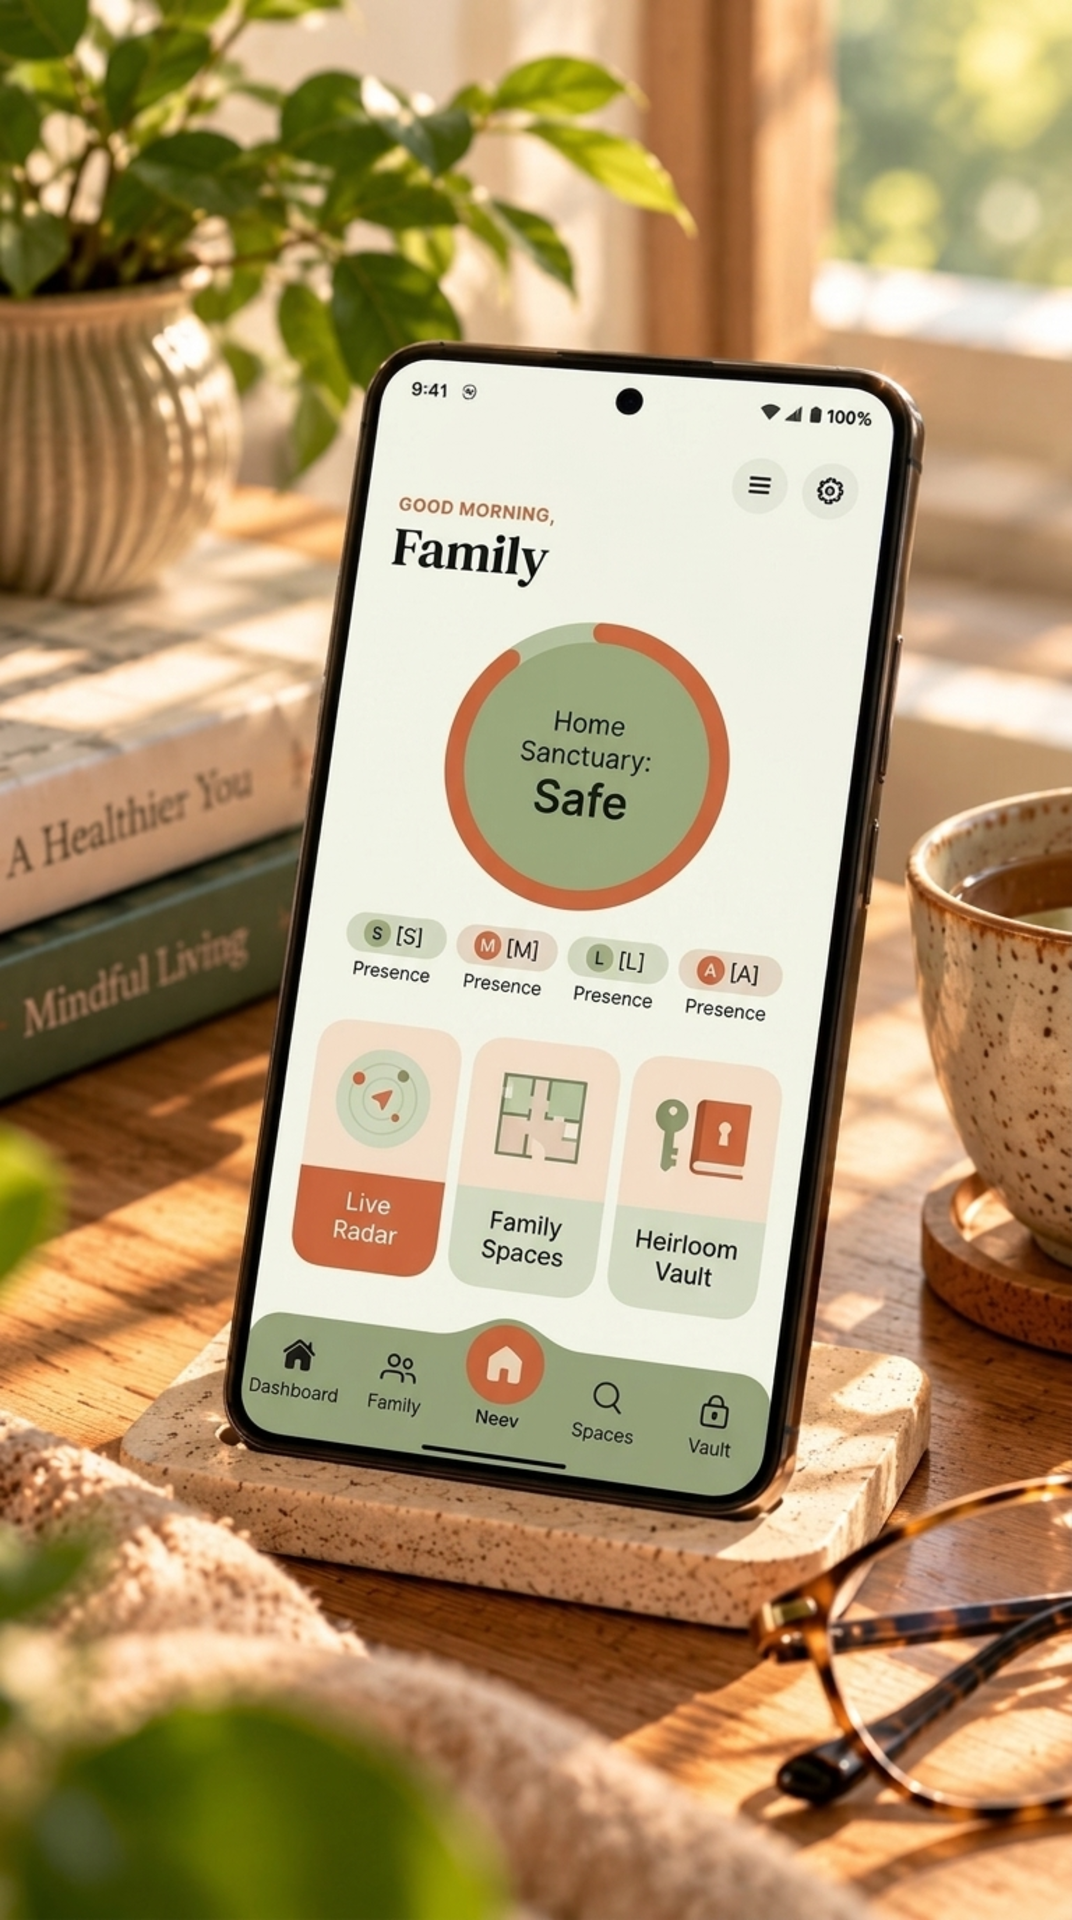
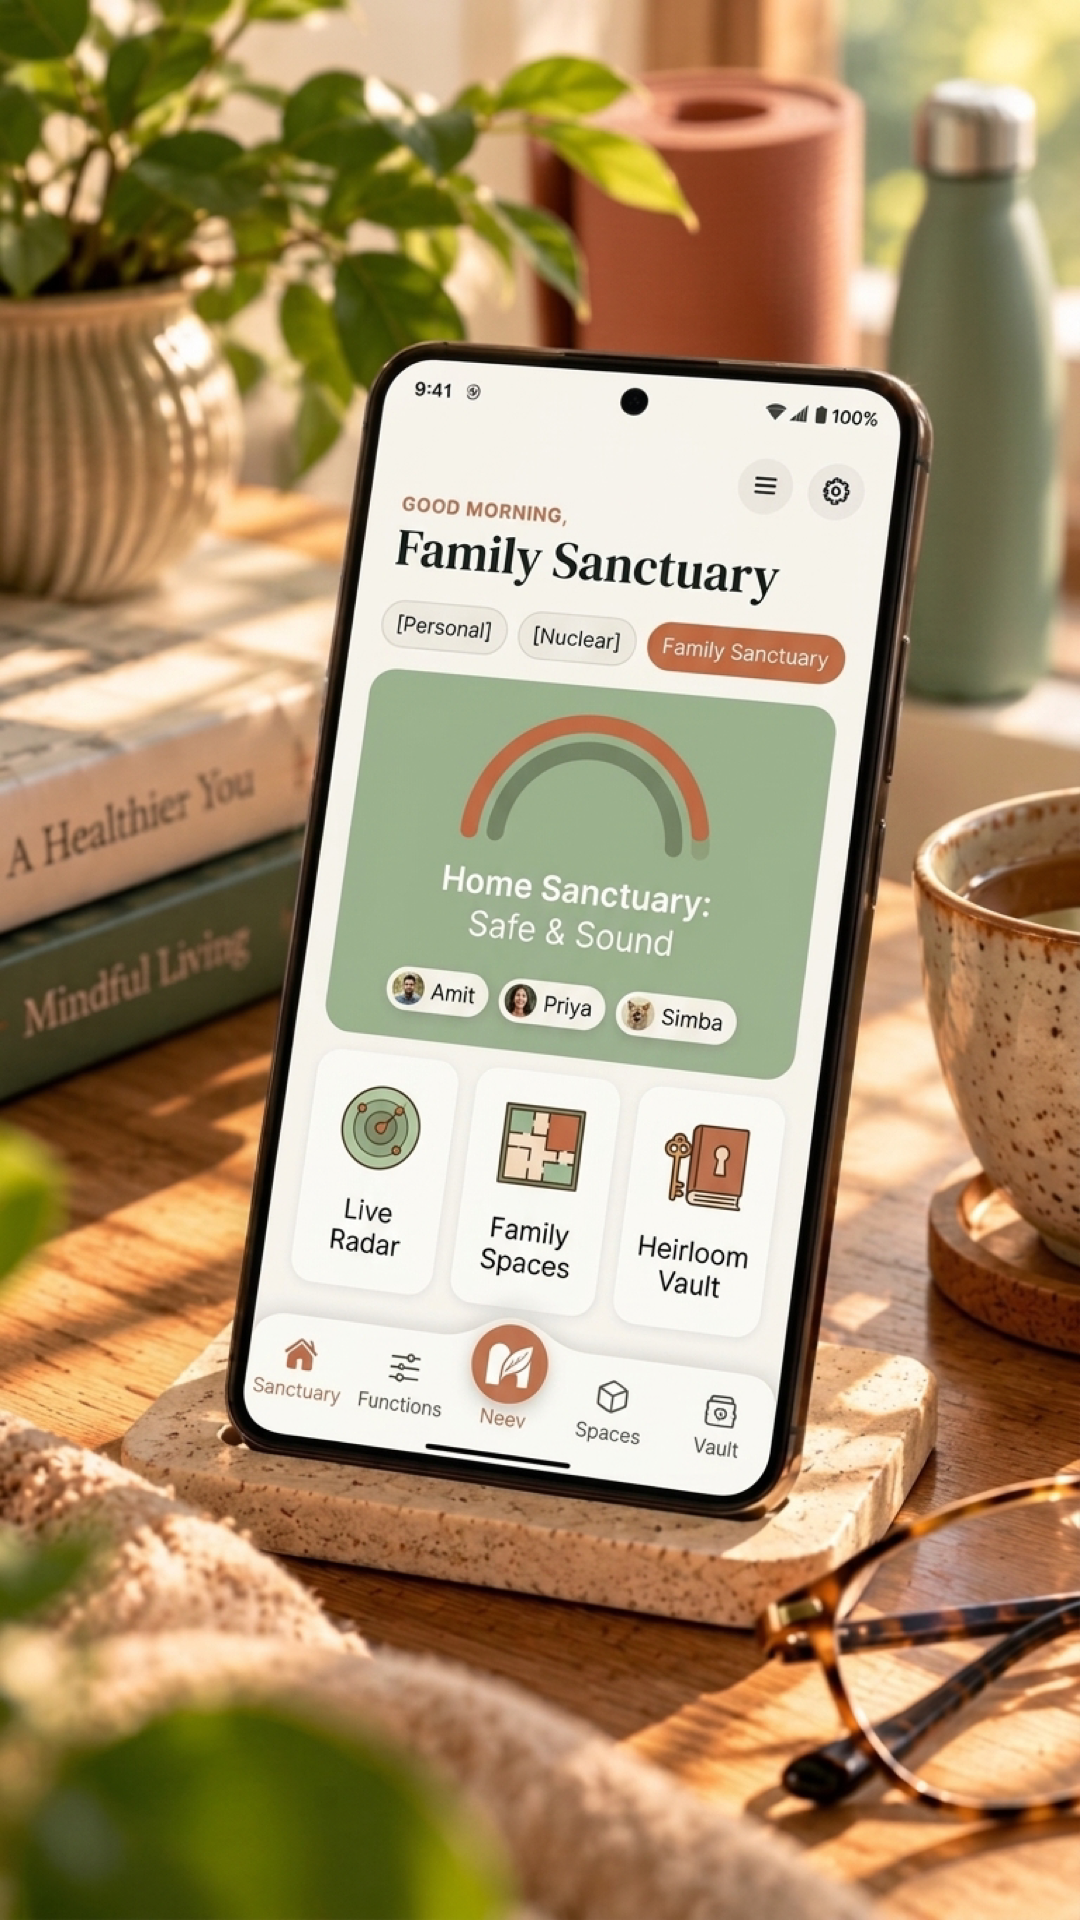
chore(auth): comment anvay id in signin and update screenshot
Comments out ecosystem signin button to prevent crash, removes unused workflow, deploys real lifestyle screenshot, and documents AnvayKosh architecture.

Changed region(s): [[0.2155, 0.25, 0.8004, 0.7812], [0.4618, 0.0312, 1.0, 0.4062]]

diff --git a/src/app/(auth)/sign-in.tsx b/src/app/(auth)/sign-in.tsx
@@ -6,7 +6,6 @@ import { useSafeAreaInsets } from "react-native-safe-area-context"
 import Svg, { Path } from "react-native-svg"
 
 import AnimatedNeevLogoIcon from "@/components/brand/AnimatedNeevLogoIcon"
-import { AnvayKoshIcon } from "@/components/brand/AnvayKoshIcon"
 import { AppBottomSheetModal } from "@/components/ui/AppBottomSheetModal"
 import { AppButton } from "@/components/ui/AppButton"
 import { HeaderBackButton } from "@/components/ui/AppHeader"
@@ -108,31 +107,34 @@ export default function SignInScreen() {
     }
   }
 
+
+  /*
   const handleVaultSos = async () => {
     setPending("setu")
     try {
       const result = await signInWithSetu()
       if (result.status === "launched") {
         showToast({
-          title: "Vault SOS",
+          title: "Anvay ID",
           message: "Connecting to ecosystem peer vault...",
           type: "info",
         })
       } else if (result.status === "not_installed") {
         showAlert({
-          title: "Vault SOS Ecosystem",
+          title: "Anvay Vault Ecosystem",
           message: "Connect instantly across your ecosystem apps (Thrivefold, Setu, HarmonyBloom, BlinkQuest) or download Setu Vault.",
           confirmText: "Get Setu Vault",
           cancelText: "Dismiss",
           onConfirm: () => void openSetuDownload(),
         })
       } else if (result.status === "failed") {
-        showToast("Couldn't open Vault SOS", "error")
+        showToast("Couldn't open Anvay ID", "error")
       }
     } finally {
       setPending(null)
     }
   }
+  */
 
   const handleGuest = async () => {
     setPending("guest")
@@ -178,6 +180,7 @@ export default function SignInScreen() {
           highlighted
         />
 
+        {/* Anvay ID 1-Tap Ecosystem Sign-In (Uncomment to activate once deep-linking screen is configured)
         <ProviderButton
           label="Anvay ID"
           subtitle="AnvayKosh Unified Ecosystem · 1-Tap Sign-In"
@@ -187,6 +190,8 @@ export default function SignInScreen() {
           onPress={() => void handleVaultSos()}
           highlighted
         />
+        */}
+
 
         <ProviderButton
           label="Continue without an account"

diff --git a/README.md b/README.md
@@ -8,6 +8,21 @@ It safeguards family data within an encrypted private enclave with zero third-pa
 
 ---
 
+## 🛡 AnvayKosh (अन्वयकोश) Ecosystem Integration
+
+<div align="center">
+  <img src="assets/brand/anvaykosh-icon.svg" width="96" height="96" alt="AnvayKosh Ecosystem Icon" />
+  <p><em>Registered flagship application in the AnvayKosh unified private ecosystem.</em></p>
+</div>
+
+Neev is a registered cornerstone application in the **AnvayKosh** private multi-app ecosystem:
+- **Anvay ID**: Fast, federated single sign-on across member apps (`Neev`, `Thrivefold`, `HarmonyBloom`, `BlinkQuest`, `Setu`).
+- **Anvay Vault**: Encrypted personal profile storing user identity basics and shared family traditions while strictly isolating private household radar and locations on-device.
+- **Anvay Connect**: Authorized cross-app peer-to-peer protocol via verified deep links and Android 11+ `<queries>`.
+- **Anvay Sync**: Offline-first synchronization with non-destructive nullish merge (`coalesce`) and secure cloud reconciliation.
+
+---
+
 ## 🌟 Core Architecture & Sacred Spaces
 
 ### 1. 🔒 Sacred Spaces Multi-Partitioning
